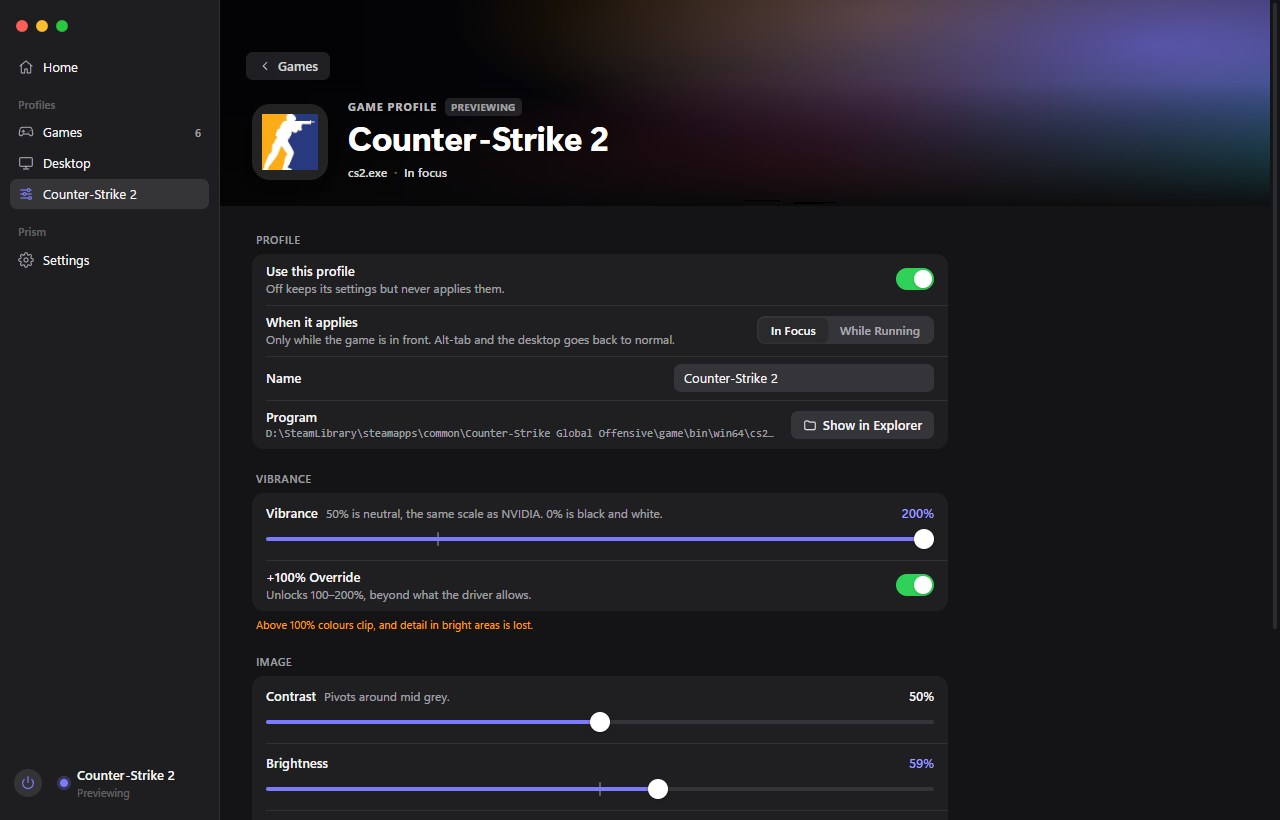
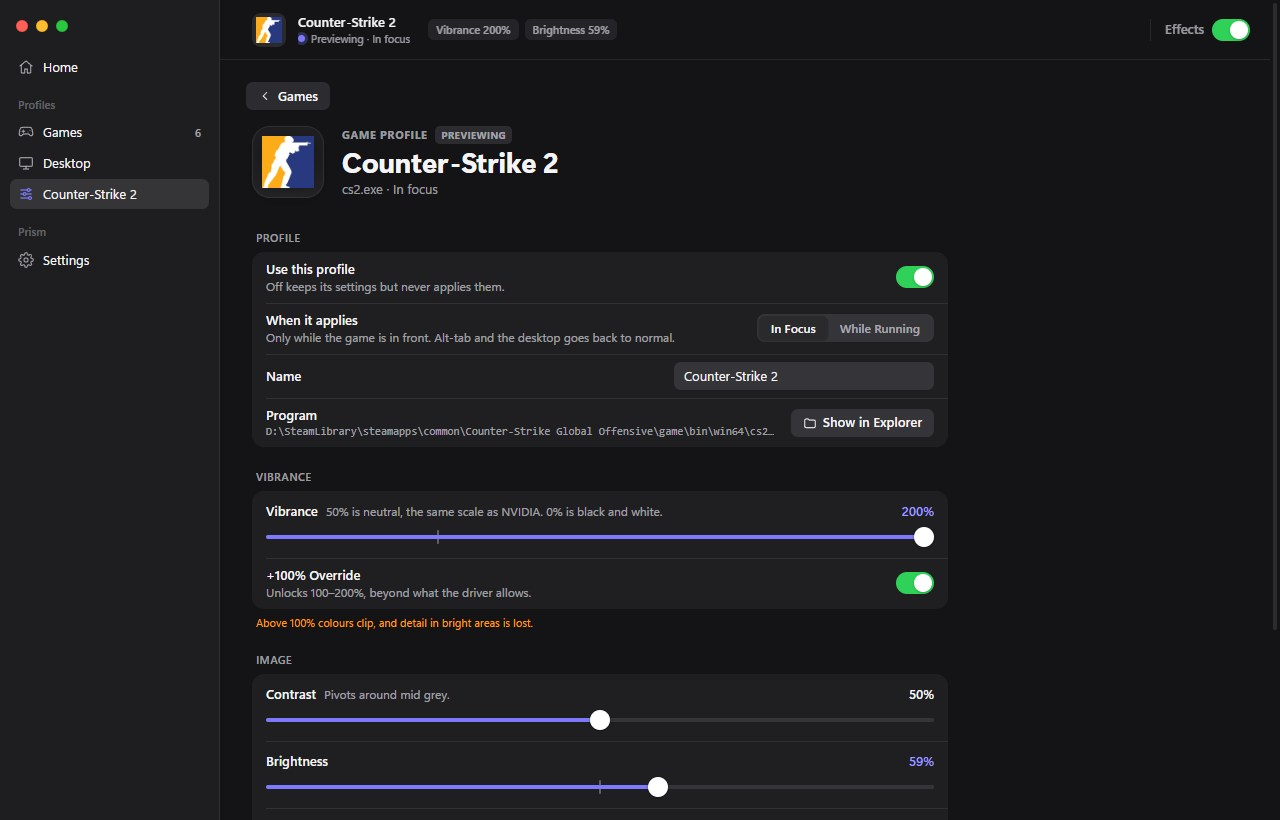
Screenshots with the new top bar

diff --git a/README.md b/README.md
@@ -6,7 +6,7 @@ Your games, in their own colours. A small native app for Windows 10 and 11, by P
 
 More at [lilpatter.github.io/prism](https://lilpatter.github.io/prism/).
 
-<p align="center"><img src="screenshots/home.jpg" width="100%" alt="Home with FragPunk active at 200% vibrance, the colours on screen, and a shelf of game profiles." /></p>
+<p align="center"><img src="screenshots/home.jpg" width="100%" alt="Home with FragPunk active in the top bar, its colours on screen, and every game profile." /></p>
 
 ## What it does
 
